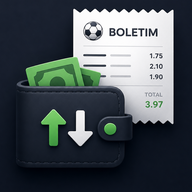
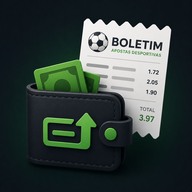
Substitui ícone PWA por versão sem rebordo (nova arte enviada)
Claude-Session: https://claude.ai/code/session_01GzaEp4cY3vLshJbFnSBnBV

diff --git a/sw.js b/sw.js
@@ -1,5 +1,5 @@
 /* Controlo de Apostas — service worker */
-const CACHE = 'bc-v10';
+const CACHE = 'bc-v11';
 const ASSETS = ['./', './index.html', './manifest.json'];
 
 self.addEventListener('install', e => {
